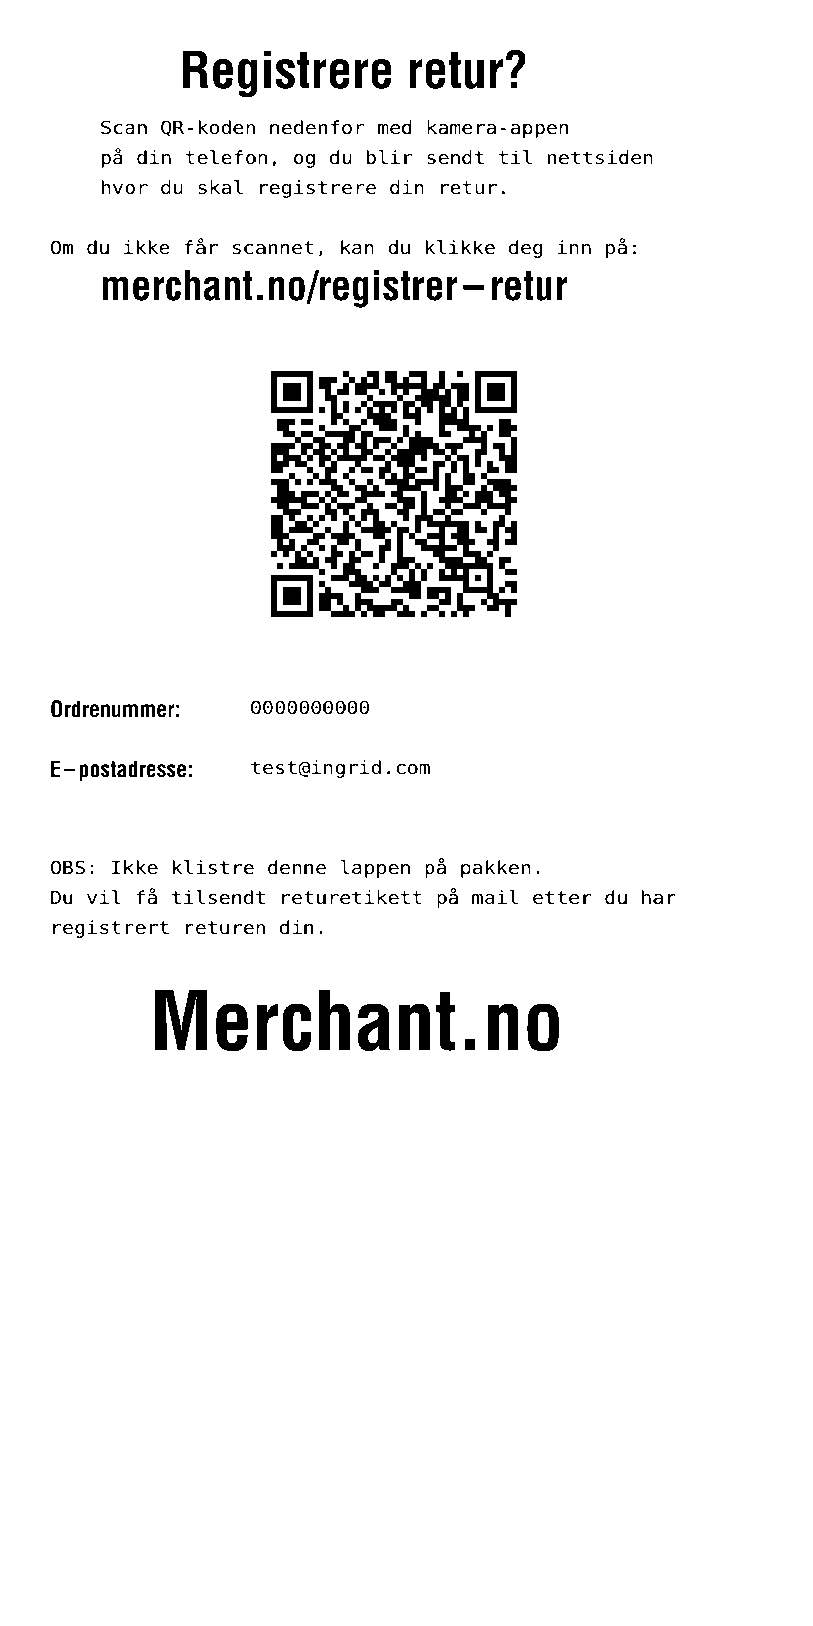
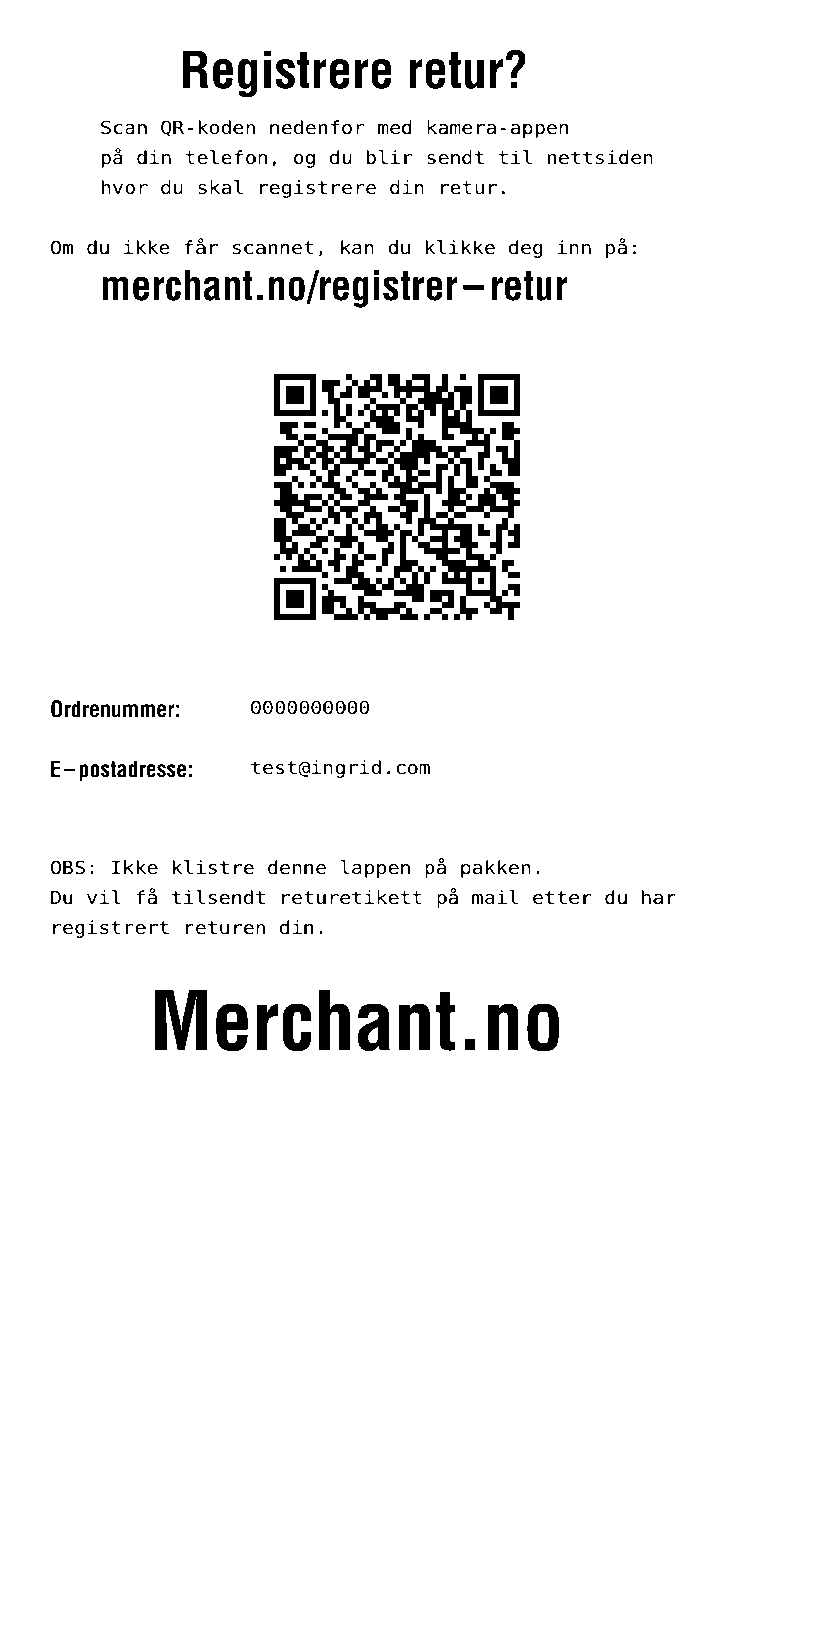
Fix barcodes scaling and PDF417 detection

Changed region(s): [[0.3383, 0.2153, 0.6458, 0.3998]]

diff --git a/images/scaled.go b/images/scaled.go
@@ -2,54 +2,20 @@ package images
 
 import (
 	"image"
-	"image/color"
-	"math"
+
+	"golang.org/x/image/draw"
 )
 
-type ScaledImgWrap struct {
-	img          image.Image
-	scaledRect   image.Rectangle
-	scaleFactorX float64
-	scaleFactorY float64
-}
-
-func NewScaled(img image.Image, scaleFactorX, scaleFactorY float64) image.Image {
+func NewScaled(img image.Image, scaleFactorX, scaleFactorY int) image.Image {
 	bounds := img.Bounds()
 
 	if scaleFactorX == 1 && scaleFactorY == 1 {
 		return img
 	}
 
-	width := int(math.Round(float64(bounds.Dx()) * scaleFactorX))
-	height := int(math.Round(float64(bounds.Dy()) * scaleFactorY))
+	dst := image.NewRGBA(image.Rect(0, 0, bounds.Max.X*scaleFactorX, bounds.Max.Y*scaleFactorY))
 
-	return &ScaledImgWrap{
-		img:          img,
-		scaledRect:   image.Rect(0, 0, width, height),
-		scaleFactorX: scaleFactorX,
-		scaleFactorY: scaleFactorY,
-	}
-}
+	draw.NearestNeighbor.Scale(dst, dst.Rect, img, bounds, draw.Over, nil)
 
-func (w *ScaledImgWrap) ColorModel() color.Model {
-	return w.img.ColorModel()
-}
-
-func (w *ScaledImgWrap) Bounds() image.Rectangle {
-	return w.scaledRect
-}
-
-func (w *ScaledImgWrap) At(x, y int) color.Color {
-	x = w.downscaleX(x)
-	y = w.downscaleY(y)
-
-	return w.img.At(x, y)
-}
-
-func (w *ScaledImgWrap) downscaleX(v int) int {
-	return int(math.Round(float64(v) / w.scaleFactorX))
-}
-
-func (w *ScaledImgWrap) downscaleY(v int) int {
-	return int(math.Round(float64(v) / w.scaleFactorY))
+	return dst
 }

diff --git a/barcodes/pdf417/encoder.go b/barcodes/pdf417/encoder.go
@@ -64,10 +64,10 @@ func Encode(data string, securityLevel byte, targetRowHeight, targetColumns int)
 	codeData := renderBarcode(codes)
 	width := (columns+4)*17 + 1
 	height := codeData.Len() / width
-	scaleY := 4.0
+	scaleY := 4
 
 	if targetRowHeight > 0 {
-		scaleY = float64(rows*targetRowHeight) / float64(height)
+		scaleY = max(1, rows*targetRowHeight/height)
 	}
 
 	barcode := &pdfBarcode{
@@ -102,7 +102,7 @@ func getLeftCodeWord(rowNum int, rows int, columns int, securityLevel byte) int 
 
 	switch tableId {
 	case 0:
-		x = (rows - 3) / 3
+		x = (rows - 1) / 3
 	case 1:
 		x = int(securityLevel) * 3
 		x += (rows - 1) % 3

diff --git a/drawers/barcode_qr.go b/drawers/barcode_qr.go
@@ -33,7 +33,7 @@ func NewBarcodeQrDrawer() *ElementDrawer {
 				return fmt.Errorf("failed to encode qr barcode: %w", err)
 			}
 
-			scaledImg := images.NewScaled(img, float64(barcode.Magnification), float64(barcode.Magnification))
+			scaledImg := images.NewScaled(img, barcode.Magnification, barcode.Magnification)
 
 			gCtx.DrawImage(scaledImg, barcode.Position.X, barcode.Position.Y)
 

diff --git a/drawers/barcode_datamatrix.go b/drawers/barcode_datamatrix.go
@@ -56,7 +56,7 @@ func NewBarcodeDatamatrixDrawer() *ElementDrawer {
 				return fmt.Errorf("failed to encode datamatrix barcode: %w", err)
 			}
 
-			scale := float64(max(barcode.Height, 1))
+			scale := max(barcode.Height, 1)
 			scaledImg := images.NewScaled(img, scale, scale)
 
 			rotateImage(gCtx, scaledImg, barcode.Position, barcode.Orientation)

diff --git a/drawers/graphic_field.go b/drawers/graphic_field.go
@@ -43,7 +43,7 @@ func NewGraphicFieldDrawer() *ElementDrawer {
 				}
 			}
 
-			imgScaled := images.NewScaled(img, float64(field.MagnificationX), float64(field.MagnificationY))
+			imgScaled := images.NewScaled(img, field.MagnificationX, field.MagnificationY)
 			gCtx.DrawImage(imgScaled, field.Position.X, field.Position.Y)
 
 			return nil

diff --git a/barcodes/aztec/encoder.go b/barcodes/aztec/encoder.go
@@ -265,5 +265,5 @@ func Encode(data []byte, minECCPercent, userSpecifiedLayers, magnification int) 
 			}
 		}
 	}
-	return images.NewScaled(code, float64(magnification), float64(magnification)), nil
+	return images.NewScaled(code, magnification, magnification), nil
 }
